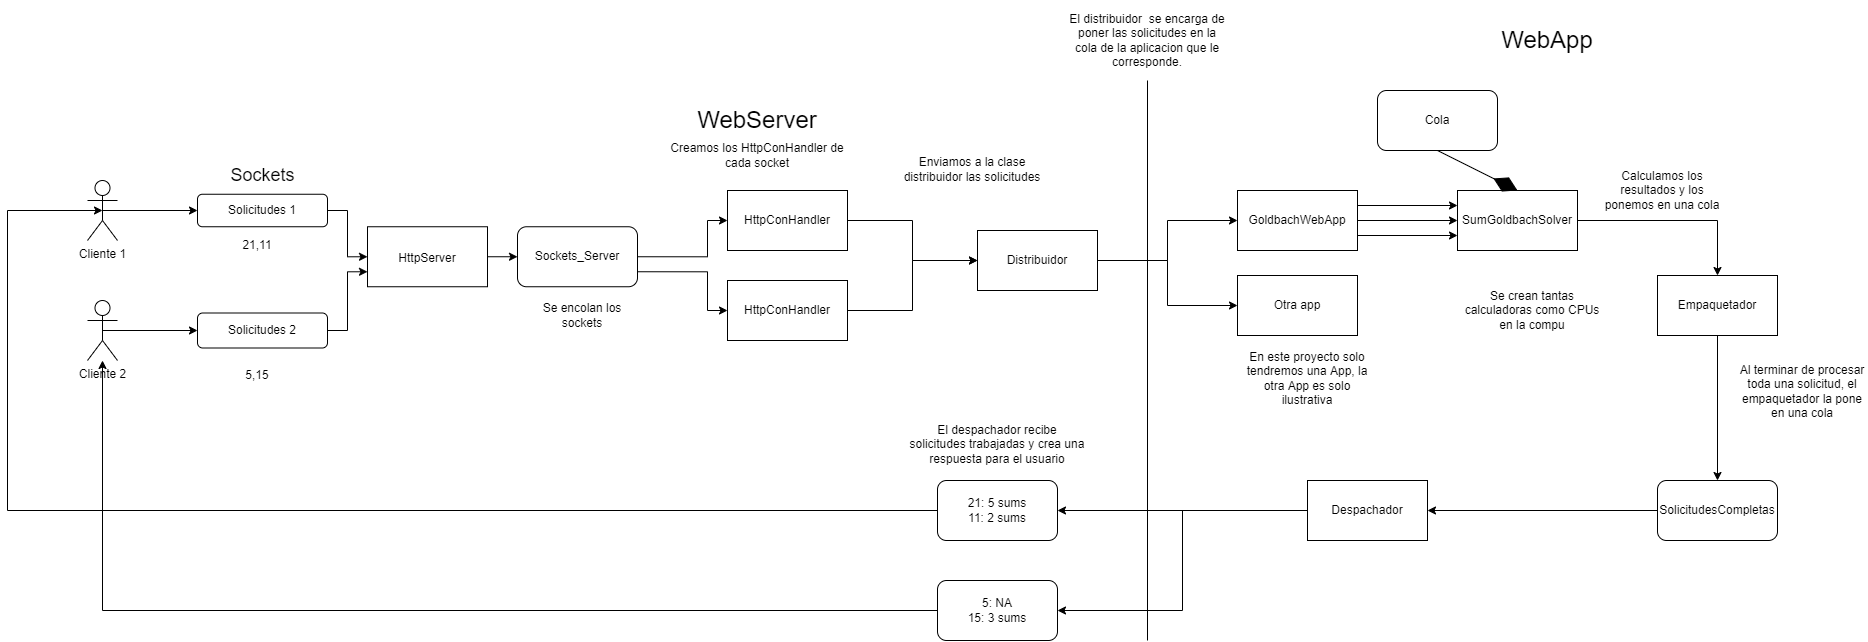
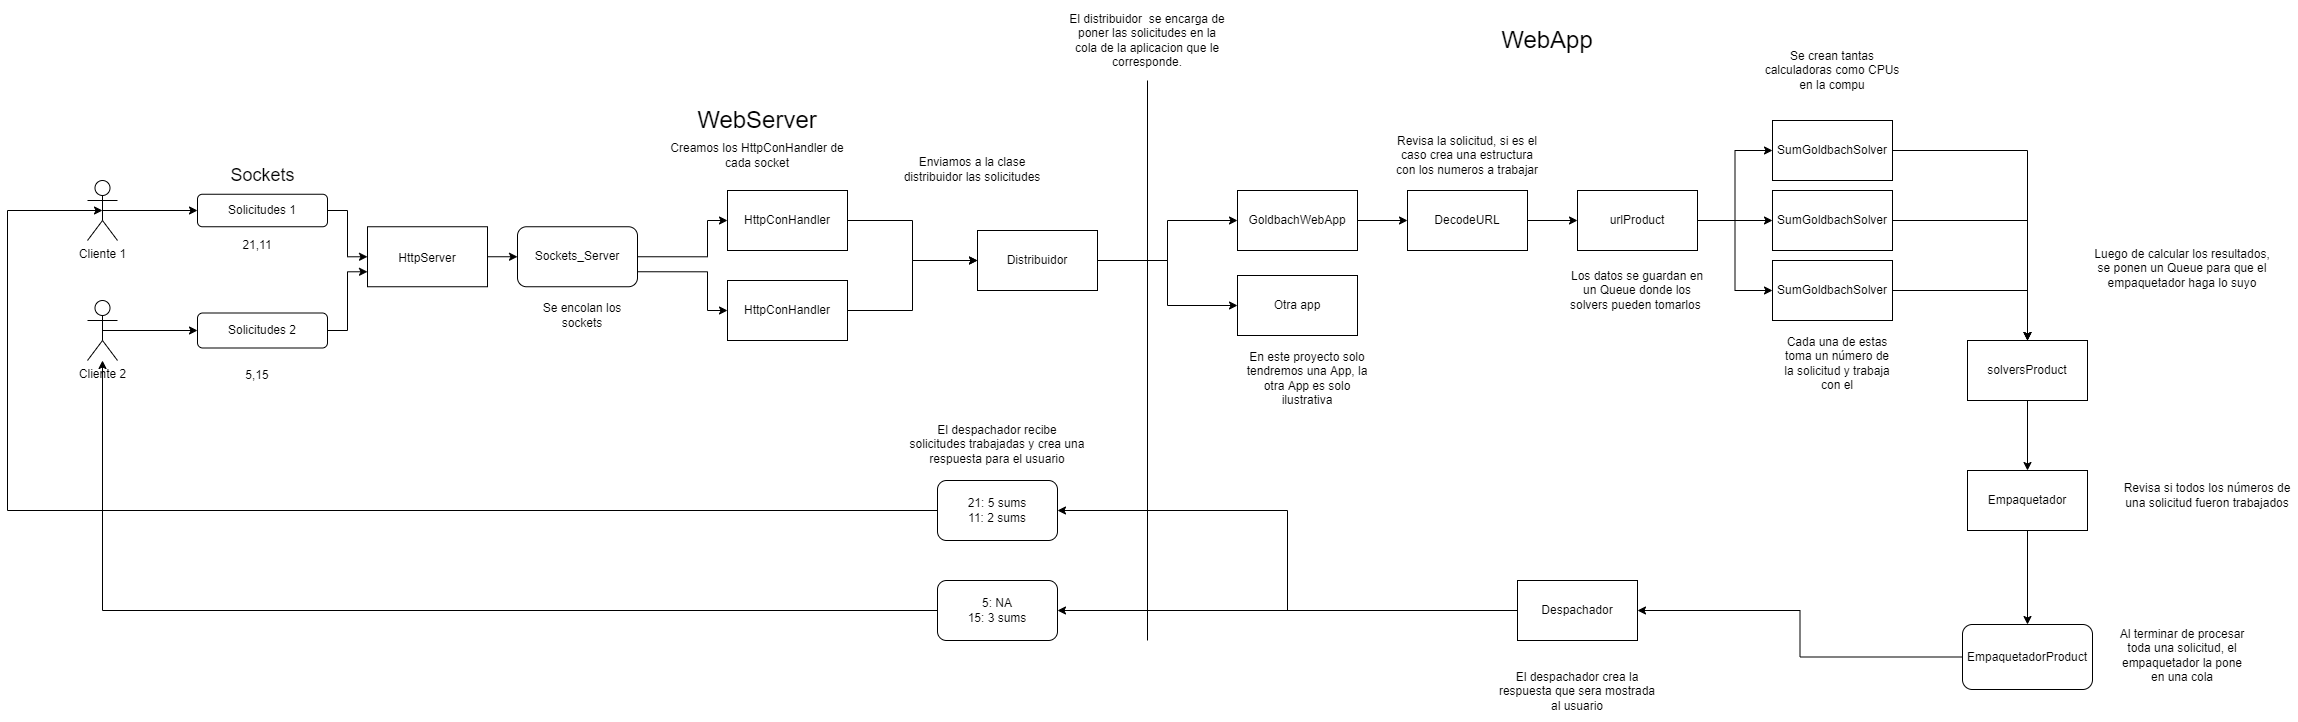
correcion en decodeURL y en archivos de diseno

diff --git a/Proyecto1/src/webapp/DecodeURL.cpp b/Proyecto1/src/webapp/DecodeURL.cpp
@@ -63,7 +63,6 @@ bool DecodeURL::serveDecodeURL(HttpRequest& httpRequest, HttpResponse& httpRespo
       htmlResponse(httpResponse, title, nullptr, 2);
       return 0;
     }
-
     return 1;
 }
 
@@ -82,6 +81,7 @@ int DecodeURL::run() {
 
 bool DecodeURL::handle(HttpRequest& httpRequest,
     HttpResponse& httpResponse) {
+      
 
   // If the request starts with "fact/" is for this web app
   if (httpRequest.getMethod() == "GET"
@@ -91,17 +91,12 @@ bool DecodeURL::handle(HttpRequest& httpRequest,
 
   // If the home page was asked
   if (httpRequest.getMethod() == "GET"
-  && httpRequest.getURI().rfind("/", 0) == 0) {
+  && httpRequest.getURI() == "/") {
     return this->serveHomepage(httpRequest, httpResponse);
   }
 
   // Unrecognized request
-  if (httpRequest.getMethod() == "GET"
-  && httpRequest.getURI().rfind("/noEncontrada", 0) == 0) {
-    return this->serveNotFound(httpRequest, httpResponse);
-  }
-
-  return 1;
+  return this->serveNotFound(httpRequest, httpResponse);
 }
 
 bool DecodeURL::serveHomepage(HttpRequest& httpRequest

diff --git a/Proyecto1/design/README.md b/Proyecto1/design/README.md
@@ -16,3 +16,5 @@ Este es el diagrama UML, el cual es muy util a la hora de moverse al codigo, mue
 
 ![Server](https://git.ucr.ac.cr/JOSE.MATARRITAMIRANDA/proyectos/-/blob/main/Proyecto1/design/Diagrama_Server_Parte1.2.png)
 
+En la parte 2 fue necesario volver concurrente la aplicacion Web, para lograr esto se decidio crear varias clases para repartir el trabajo a realizar, se creo una clase capaz de analizar las solicitudes que entran a la WebApp **(decodeSolver)**, las calculadores fueron convertidos en hilos de trabajo **(solvers)**, una clase se encarga de revisar que todo el trabajo de una solicitud fuera realizado **(Empaquetador)** y otra se encarga de mostrar la respuesta a la solicitud **(despachador)**
+
